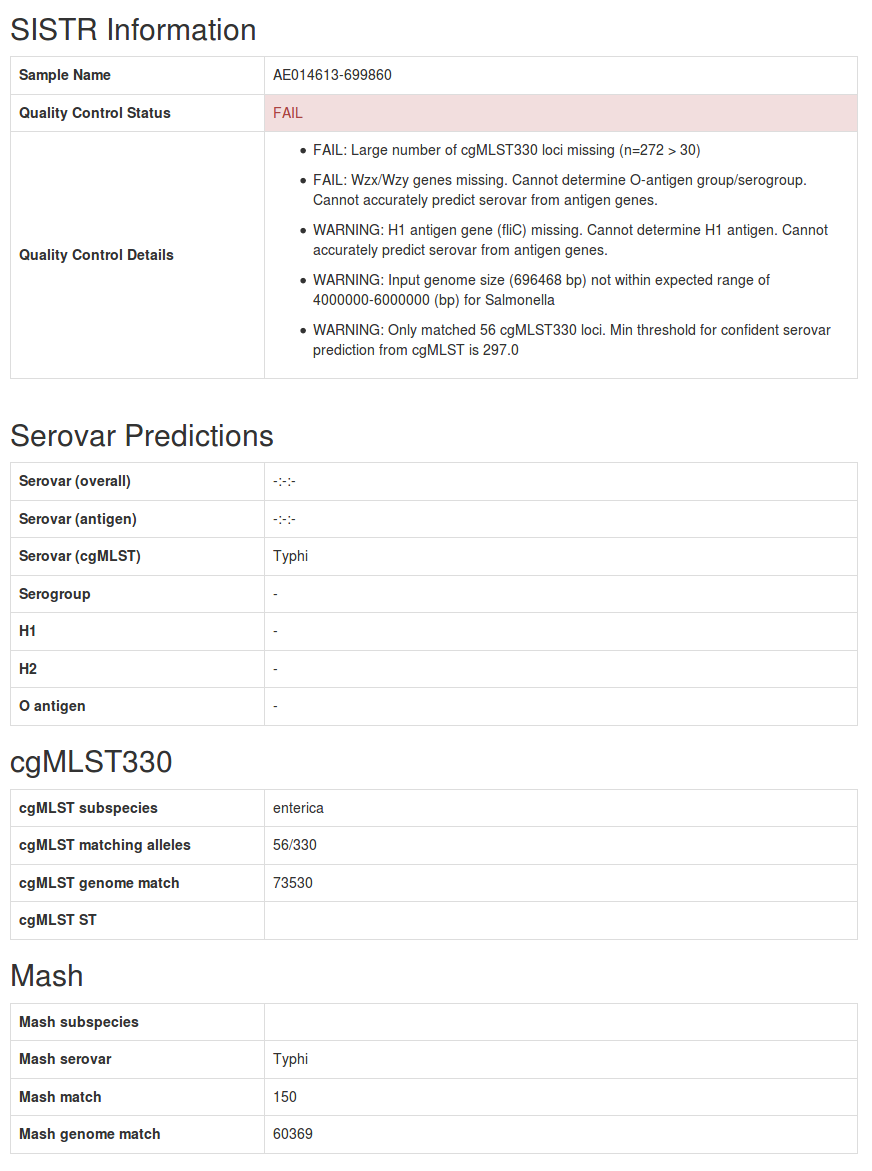
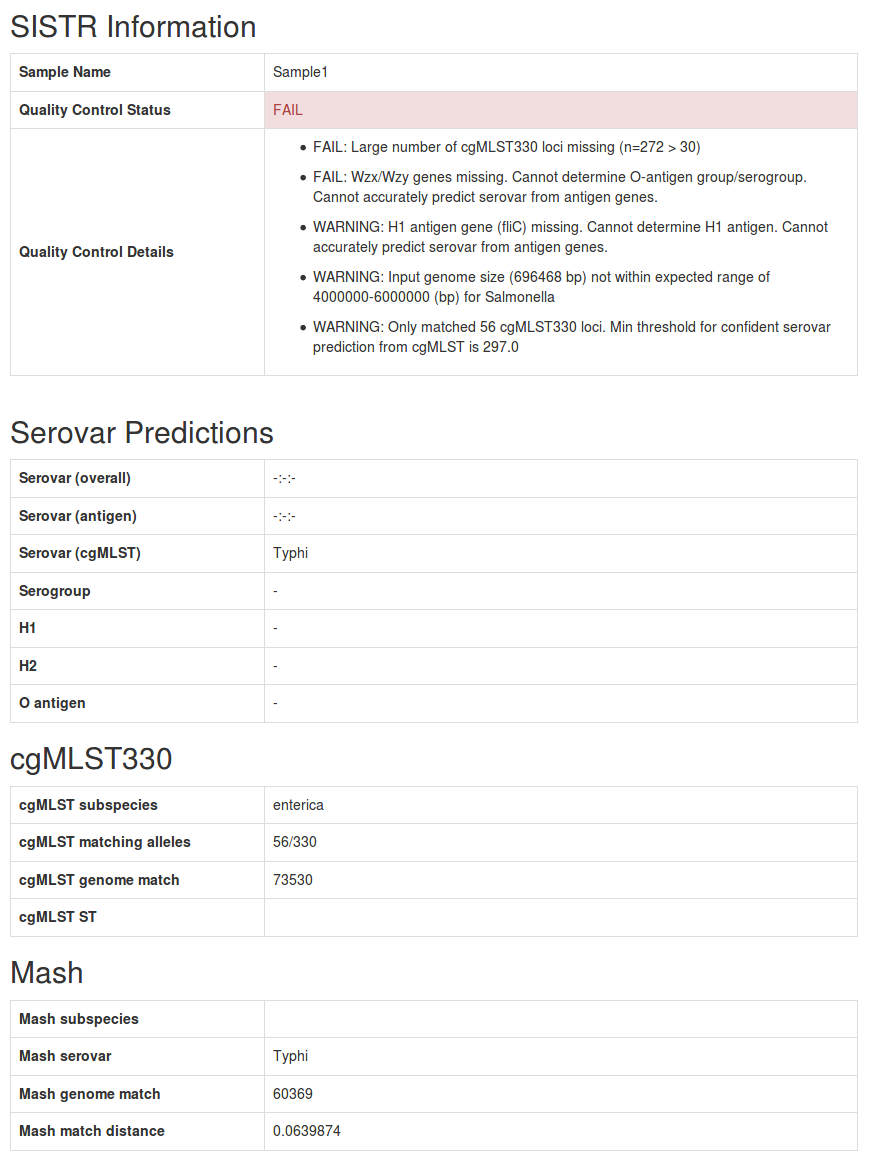
Displaying one different row in SISTR/updating screenshots

diff --git a/src/main/webapp/resources/js/pages/analysis/analysis.js b/src/main/webapp/resources/js/pages/analysis/analysis.js
@@ -174,11 +174,11 @@
         cgMLST_predictions['cgMLST ST'] = result['cgmlst_ST'];
   
         var mash_predictions = {};
-        var mash_predictions_order = ['Mash subspecies', 'Mash serovar', 'Mash match', 'Mash genome match'];
+        var mash_predictions_order = ['Mash subspecies', 'Mash serovar', 'Mash genome match', 'Mash match distance'];
         mash_predictions['Mash subspecies'] = result['mash_subspecies'];
         mash_predictions['Mash serovar'] = result['mash_serovar'];
-        mash_predictions['Mash match'] = result['mash_match'];
         mash_predictions['Mash genome match'] = result['mash_genome'];
+        mash_predictions['Mash match distance'] = result['mash_distance'];
   
         vm.sample_information = sample_information;
         vm.serotype_predictions = serotype_predictions;

diff --git a/doc/user/user/sistr/index.md b/doc/user/user/sistr/index.md
@@ -105,8 +105,8 @@ The results of predictions made through comparisons using the software [Mash][].
 
 * **Mash subspecies**: The subspecies identified by comparing the genome to the SISTR database.
 * **Mash serovar**: The serovar identified using Mash.
-* **Mash match** The number of X matching with Mash.
 * **Mash genome match**: The name of the closest matching genome in the SISTR database identified using Mash.
+* **Mash match distance** The Mash distance from the matching genome.
 
 ### Output Files
 
